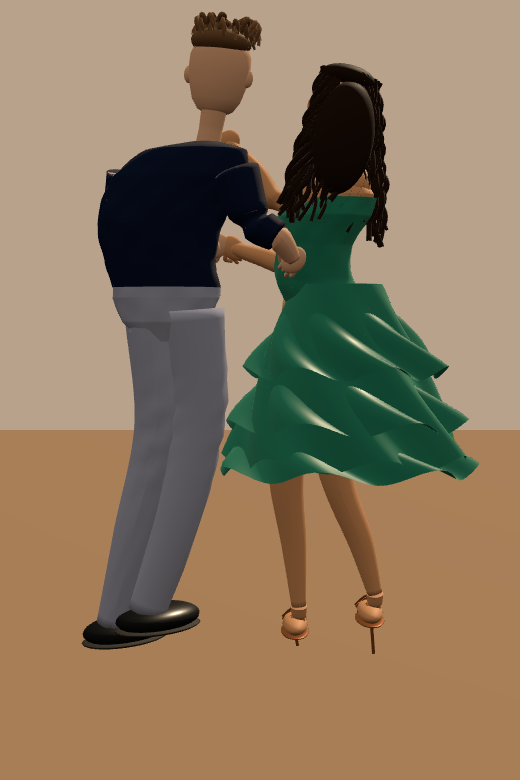
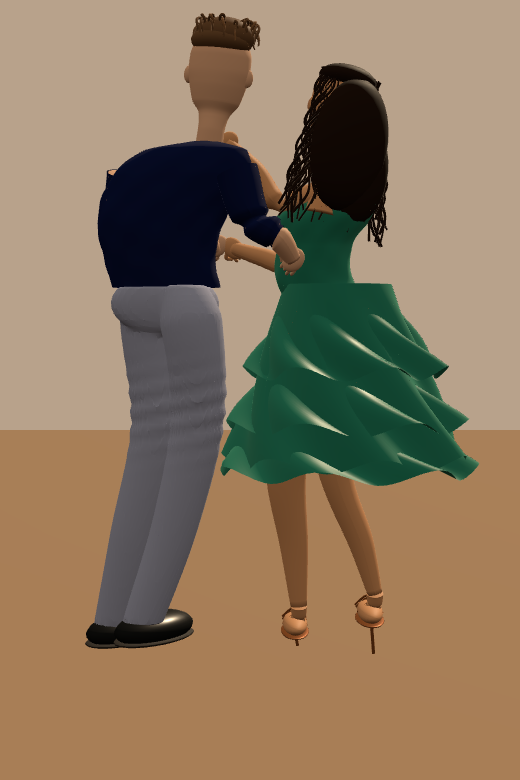
fix: join neck skin and garments into continuous modeled surfaces

diff --git a/experiments/salsa-human-models/model.js b/experiments/salsa-human-models/model.js
@@ -1,6 +1,8 @@
+import {MarchingCubes} from './marching.js';
+import {mergeVertices} from '../../vendor/BufferGeometryUtils.js';
 import * as THREE from '../../vendor/three.module.js';
 import {referenceCamera} from './camera.js';
-export const palette={dress:0x00624e,shirt:0x0e172f,trousers:0x9397af};
+export const palette={dress:0x00624e,shirt:0x0c153b,trousers:0x9397af};
 const camera=new THREE.PerspectiveCamera(referenceCamera.fov,referenceCamera.aspect,referenceCamera.near,referenceCamera.far);
 camera.position.set(...referenceCamera.position);camera.lookAt(...referenceCamera.target);camera.updateMatrixWorld();
 // Measured reference landmarks set geometry placement, never camera or image pixels.
@@ -9,7 +11,7 @@ export const landmarks={womanHead:point(.347,.143).toArray(),manHead:point(.579,
 export function createCouple(){
  const root=new THREE.Group();root.name='Detailed static salsa couple';
  const mat=(color,roughness=.65,extra={})=>new THREE.MeshPhysicalMaterial({color,roughness,...extra});
- const ws=mat(0xc58c60,.55),ms=mat(0xd0a080,.56),emerald=mat(palette.dress,.43,{sheen:.8,sheenColor:new THREE.Color(0x5caa8a)}),navy=mat(palette.shirt,.76),gray=mat(palette.trousers,.82),black=mat(0x121313,.3),bronze=mat(0x9d5c30,.32,{metalness:.55}),hair=mat(0x20140d,.6),maleHair=mat(0x63462e,.6);
+ const ws=mat(0xc58c60,.55),ms=mat(0xd0a080,.56),emerald=mat(palette.dress,.43,{sheen:.8,sheenColor:new THREE.Color(0x5caa8a)}),navy=mat(palette.shirt,.80,{specularIntensity:.35}),gray=mat(palette.trousers,.82),black=mat(0x121313,.3),bronze=mat(0x9d5c30,.32,{metalness:.55}),hair=mat(0x20140d,.6),maleHair=mat(0x63462e,.6);
  const vec=p=>p.isVector3?p.clone():new THREE.Vector3(...p);
  function mesh(name,geometry,material,parent=root){const o=new THREE.Mesh(geometry,material);o.name=name;o.castShadow=true;o.receiveShadow=true;parent.add(o);return o;}
  function oval(name,p,s,m,parent=root){const o=mesh(name,new THREE.SphereGeometry(1,24,16),m,parent);o.position.copy(vec(p));o.scale.set(...s);return o;}
@@ -24,18 +26,21 @@ export function createCouple(){
   for(const j of [0,rows]){const c=path.getPoint(j/rows),center=vertices.length/3;vertices.push(c.x,c.y,c.z);for(let k=0;k<sides;k++){const i=j*(sides+1)+k;if(j===0)indices.push(center,i,i+1);else indices.push(center,i+1,i);}}
   const g=new THREE.BufferGeometry();g.setAttribute('position',new THREE.Float32BufferAttribute(vertices,3));g.setIndex(indices);g.computeVertexNormals();const o=mesh(name,g,m);o.userData={surface:'sweep',rows,sides};return o;
  }
- function torso(name,anchors,m){const v=[],ix=[],sides=48,rings=[];const path=new THREE.CatmullRomCurve3(anchors.map(r=>r[0]));for(let j=0;j<=60;j++){const u=j/60*(anchors.length-1),i=Math.min(anchors.length-2,Math.floor(u)),f=u-i;rings.push([path.getPoint(j/60),THREE.MathUtils.lerp(anchors[i][1],anchors[i+1][1],f),THREE.MathUtils.lerp(anchors[i][2],anchors[i+1][2],f)]);}
+ function torso(name,anchors,m){const v=[],ix=[],sides=48,rings=[];const path=new THREE.CatmullRomCurve3(anchors.map(r=>r[0])),profile=new THREE.CatmullRomCurve3(anchors.map(r=>new THREE.Vector3(r[1],r[2],0)));for(let j=0;j<=60;j++){const u=j/60*(anchors.length-1),i=Math.min(anchors.length-2,Math.floor(u)),f=u-i;const radius=profile.getPoint(j/60);rings.push([path.getPoint(j/60),radius.x,radius.y]);}
   for(const [row,[c,rx,rz]] of rings.entries())for(let i=0;i<=sides;i++){const a=i/sides*Math.PI*2;const fold=1+.012*Math.sin(a*9+c.y*38)+.009*Math.sin(a*5-c.y*51);const neckline=name==='Emerald fitted bodice'?.07*Math.max(0,Math.sin(a))**4*(row/60)**12:0;v.push(c.x+Math.cos(a)*rx*fold,c.y-neckline,c.z+Math.sin(a)*rz*fold);}
   for(let j=0;j<rings.length-1;j++)for(let i=0;i<sides;i++){const k=j*(sides+1)+i;ix.push(k,k+sides+1,k+1,k+1,k+sides+1,k+sides+2);}
   const g=new THREE.BufferGeometry();g.setAttribute('position',new THREE.Float32BufferAttribute(v,3));g.setIndex(ix);g.computeVertexNormals();const material=m.clone();material.side=THREE.DoubleSide;return mesh(name,g,material);
  }
  function head(name,p,skin,hairMaterial,female){
   const g=new THREE.Group();g.name=name+' head';g.position.copy(p);g.rotation.set(0,female?.42:-.18,female?.22:.12);root.add(g);
-  const rings=[[-.135,.025,.038],[-.117,.058,.060],[-.085,.079,.073],[-.04,.092,.083],[.01,.101,.086],[.06,.100,.084],[.105,.085,.071],[.13,.04,.04]];
+  // The neck and face share one continuous skin mesh; no detached cylinder/cap under the jaw.
+  const anchors=[[-.36,.065,.060,-.025],[-.27,.046,.047,-.025],[-.19,.043,.048,-.020],[-.145,.047,.052,-.008],[-.125,.054,.059,0],[-.095,.076,.071,0],[-.04,.092,.083,0],[.01,.101,.086,0],[.06,.100,.084,0],[.105,.085,.071,0],[.135,.025,.025,0]];
+  const profile=new THREE.CatmullRomCurve3(anchors.map(r=>new THREE.Vector3(r[1],r[2],r[3]))),heights=new THREE.CatmullRomCurve3(anchors.map(r=>new THREE.Vector3(r[0],0,0))),rings=[];
+  for(let i=0;i<=88;i++){const t=i/88,u=t*(anchors.length-1),k=Math.min(anchors.length-2,Math.floor(u)),f=u-k,r=profile.getPoint(t);rings.push([heights.getPoint(t).x,r.x,r.y,r.z]);}
   const v=[],ix=[],sides=56;
-  for(const [y,rx,rz] of rings)for(let i=0;i<=sides;i++){const a=i/sides*Math.PI*2,cheek=1+.035*Math.cos(a*2);v.push(Math.cos(a)*rx*cheek,y,Math.sin(a)*rz);}
+  for(const [y,rx,rz,cz] of rings)for(let i=0;i<=sides;i++){const a=i/sides*Math.PI*2,cheek=1+.035*Math.cos(a*2);v.push(Math.cos(a)*rx*cheek,y,cz+Math.sin(a)*rz);}
   for(let j=0;j<rings.length-1;j++)for(let i=0;i<sides;i++){const k=j*(sides+1)+i;ix.push(k,k+sides+1,k+1,k+1,k+sides+1,k+sides+2);}
-  for(const row of [0,rings.length-1]){const index=v.length/3;v.push(0,rings[row][0],0);for(let i=0;i<sides;i++){const k=row*(sides+1)+i;if(row===0)ix.push(index,k,k+1);else ix.push(index,k+1,k);}}
+  for(const row of [0,rings.length-1]){const index=v.length/3;v.push(0,rings[row][0],rings[row][3]);for(let i=0;i<sides;i++){const k=row*(sides+1)+i;if(row===0)ix.push(index,k,k+1);else ix.push(index,k+1,k);}}
   const geo=new THREE.BufferGeometry();geo.setAttribute('position',new THREE.Float32BufferAttribute(v,3));geo.setIndex(ix);geo.computeVertexNormals();mesh(name+' shaped face',geo,skin,g);
   oval(name+' nose bridge',[0,-.007,.085],[.014,.033,.015],skin,g);oval(name+' nose tip',[0,-.031,.103],[.018,.013,.017],skin,g);
   for(const x of [-1,1]){oval(name+' nose wing',[x*.014,-.034,.097],[.011,.010,.012],skin,g);oval(name+' nostril',[x*.012,-.04,.105],[.005,.003,.004],mat(0x6b3d29),g);
@@ -48,19 +53,18 @@ export function createCouple(){
   curve(name+' smile lower',[[-.032,-.066,.071],[0,-.079,.082],[.032,-.059,.07]],.004,lip,g);
   oval(name+' visible teeth',[0,-.071,.080],[.029,.007,.003],mat(0xeadbc5,.4),g);
   oval(name+' scalp',[0,.104,-.017],[.103,.048,.081],hairMaterial,g);
-  if(female)oval(name+' back hair volume',[0,-.10,-.07],[.107,.19,.067],hairMaterial,g);
+  if(female){oval(name+' back hair volume',[-.025,-.12,-.075],[.135,.225,.078],hairMaterial,g);oval(name+' flowing hair volume',[-.075,-.20,-.06],[.115,.18,.065],hairMaterial,g);}else oval(name+' swept hair volume',[-.01,.125,-.016],[.102,.062,.075],hairMaterial,g);
   const count=female?70:60;
   for(let i=0;i<count;i++){const a=i*2.39996,seed=(Math.sin(i*7.13)+1)/2;
-   if(female){const side=Math.cos(a),back=Math.sin(a);if(back>.55&&Math.abs(side)<.75)continue;const points=[];for(let j=0;j<8;j++){const t=j/7;points.push([side*(.085+t*(side<0?.15:.06))+Math.sin(t*15+i)*.019,.12-t*(.43+seed*.10),-.025-Math.abs(back)*.045+Math.sin(t*13+i)*.018]);}curve(name+' wavy hair lock '+i,points,i%3===0?.010:.006,hairMaterial,g);}
-   else{const x=Math.cos(a)*.087,z=Math.sin(a)*.062,points=[];for(let j=0;j<=8;j++){const t=j/8,angle=t*Math.PI*2*(.8+seed*.4)+i*.21;points.push([x-.025*t+.012*Math.cos(angle),.10+.055*Math.sin(Math.PI*t)+seed*.025,z-.02+.018*Math.sin(angle)+.02*t]);}curve(name+' tousled curl '+i,points,.005+seed*.004,i%5===0?mat(0x795435,.6):maleHair,g);}}
+   if(female){const side=Math.cos(a),back=Math.sin(a);if(back>.55&&Math.abs(side)<.75)continue;const points=[];for(let j=0;j<8;j++){const t=j/7;points.push([side*(.085+t*(side<0?.15:.06))+Math.sin(t*15+i)*.019,.12-t*(.43+seed*.10),-.025-Math.abs(back)*.045+Math.sin(t*13+i)*.018]);}curve(name+' wavy hair lock '+i,points,i%3===0?.0045:.0030,hairMaterial,g);}
+   else{const x=Math.cos(a)*.087,z=Math.sin(a)*.062,points=[];for(let j=0;j<=8;j++){const t=j/8,angle=t*Math.PI*2*(.8+seed*.4)+i*.21;points.push([x-.025*t+.012*Math.cos(angle),.10+.055*Math.sin(Math.PI*t)+seed*.025,z-.02+.018*Math.sin(angle)+.02*t]);}curve(name+' tousled curl '+i,points,.0028+seed*.0018,i%5===0?mat(0x795435,.6):maleHair,g);}}
  }
  const wh=point(.347,.143),mh=point(.579,.096);head('Woman',wh,ws,hair,true);head('Man',mh,ms,maleHair,false);
- sweep('Woman neck',[[point(.353,.239),.044],[point(.350,.190),.038],[point(.347,.165),.043]],ws,.9);
- sweep('Man neck',[[point(.607,.218),.053],[point(.595,.167),.044],[point(.586,.133),.049]],ms,.9);
+
  torso('Fitted navy shirt',[[point(.680,.369,-.015),.18,.095],[point(.690,.334,-.02),.185,.103],[point(.690,.287,-.02),.21,.115],[point(.650,.23,-.02),.235,.11],[point(.621,.195,-.02),.17,.085],[point(.605,.185,-.015),.06,.05]],navy);
  torso('Woman upper torso',[[point(.367,.282,-.01),.125,.08],[point(.349,.251,-.01),.12,.075],[point(.349,.230,-.01),.075,.055]],ws);
  torso('Emerald fitted bodice',[[point(.365,.39),.145,.09],[point(.395,.36),.13,.083],[point(.395,.315),.125,.09],[point(.376,.278),.16,.105],[point(.355,.255),.14,.09]],emerald);
- oval('Woman upper shoulder',point(.327,.239,-.01),[.07,.065,.06],ws);
+ oval('Woman upper shoulder',point(.327,.239,.05),[.062,.062,.062],ws);
  for(const [a,b,c] of [[point(.31,.223),point(.305,.25,.015),point(.333,.284,.09)],[point(.374,.235),point(.41,.269,.08),point(.435,.29,.095)]])curve('Dress shoulder strap',[a,b,c],.007,emerald);
  const shirtSeam=mat(0x28374c,.8);
  curve('Shirt front placket',[point(.602,.202,.115),point(.604,.28,.12),point(.613,.362,.105)],.008,shirtSeam);
@@ -70,27 +74,67 @@ export function createCouple(){
  // Smooth anatomical leg profiles and contiguous trouser volumes.
  const legs=[
  ['Woman back',[[.335,.39,.00,.09],[.359,.59,.025,.07],[.300,.705,.04,.048],[.275,.767,.04,.029]],ws],
- ['Woman front',[[.405,.385,.10,.095],[.447,.609,.13,.073],[.430,.718,.15,.05],[.420,.802,.15,.029]],ws],
- ['Man back trouser',[[.626,.397,-.035,.102],[.615,.526,-.015,.089],[.656,.66,-.01,.077],[.719,.786,.01,.065]],gray],
- ['Man front trouser',[[.711,.399,.025,.105],[.698,.546,.03,.093],[.746,.69,.04,.082],[.790,.811,.065,.067]],gray]];
+ ['Woman front',[[.387,.38,.015,.055],[.418,.490,.12,.093],[.447,.609,.13,.073],[.430,.718,.15,.05],[.420,.802,.15,.029]],ws],
+ ['Man back trouser',[[.640,.374,-.08,.070],[.626,.414,-.10,.102],[.615,.526,-.08,.089],[.656,.66,-.075,.077],[.719,.786,-.07,.065]],gray],
+ ['Man front trouser',[[.710,.372,.020,.070],[.711,.418,.025,.105],[.698,.546,.03,.093],[.746,.69,.04,.082],[.790,.811,.065,.067]],gray]];
  torso('Trouser pelvis',[[point(.680,.438),.09,.07],[point(.680,.413),.15,.095],[point(.680,.382),.18,.097],[point(.680,.365),.18,.096]],gray);
  for(const [name,points,m] of legs){sweep(name,points.map(([x,y,z,r])=>[point(x,y,z),r]),m,.88);const last=points.at(-1),p=point(last[0],last[1],last[2]);
-  if(name.startsWith('Man')){const shoe=oval(name+' leather derby',p.clone().add(new THREE.Vector3(-.035,-.030,.058)),[.11,.048,.18],black);shoe.rotation.y=-.65;const sole=oval(name+' layered sole',p.clone().add(new THREE.Vector3(-.035,-.062,.058)),[.113,.014,.183],mat(0x24201d));sole.rotation.y=-.65;
-   for(let i=0;i<5;i++)curve(name+' lace '+i,[p.clone().add(new THREE.Vector3(-.035,-.005,.03+i*.015)),p.clone().add(new THREE.Vector3(.015,-.008,.04+i*.015))],.0025,mat(0x5a534b));
-   const seam=points.map(([x,y,z])=>point(x+.025,y,z+.055));curve(name+' outer seam',seam,.0016,mat(0x676669));
+  if(name.startsWith('Man')){const shoe=oval(name+' leather derby',p.clone().add(new THREE.Vector3(-.035,-.030,.058)),[.095,.055,.17],black);shoe.rotation.y=-.65;const sole=oval(name+' layered sole',p.clone().add(new THREE.Vector3(-.035,-.062,.058)),[.098,.014,.173],mat(0x24201d));sole.rotation.y=-.65;
+   shoe.updateMatrixWorld(true);for(let i=0;i<5;i++){const z=-.06+i*.018,y=.055*Math.sqrt(1-(.028/.095)**2-(z/.17)**2)+.002;curve(name+' visible lace '+i,[shoe.localToWorld(new THREE.Vector3(-.028/.095,y/.055,z/.17)),shoe.localToWorld(new THREE.Vector3(0,(y+.005)/.055,(z+.005)/.17)),shoe.localToWorld(new THREE.Vector3(.028/.095,y/.055,z/.17))],.0018,mat(0x3b3430));}
+
   }else{const foot=p.clone().add(new THREE.Vector3(.012,-.075,.060));sweep(name+' ankle',[[p,.029],[p.clone().add(new THREE.Vector3(0,-.04,.015)),.026],[foot,.026]],ws,.9);oval(name+' foot',foot,[.044,.033,.13],ws);oval(name+' sandal sole',foot.clone().add(new THREE.Vector3(0,-.028,.01)),[.05,.009,.14],bronze);curve(name+' stiletto heel',[foot.clone().add(new THREE.Vector3(0,-.025,-.065)),new THREE.Vector3(foot.x-.008,.012,foot.z-.064)],.006,bronze);
    for(const dz of [-.035,.045,.085])curve(name+' sandal strap',[foot.clone().add(new THREE.Vector3(-.043,0,dz)),foot.clone().add(new THREE.Vector3(0,.035,dz+.012)),foot.clone().add(new THREE.Vector3(.043,0,dz+.024))],.004,bronze);
    for(let i=0;i<5;i++)oval(name+' toe '+i,foot.clone().add(new THREE.Vector3(-.027+i*.014,-.002,.118-i*.004)),[.008,.012,.019],ws);
   }}
- const trouserThread=mat(0x747580,.85);
- curve('Trouser waistband seam',[point(.579,.377,.085),point(.675,.374,.105),point(.778,.38,.08)],.002,trouserThread);
- curve('Trouser fly seam',[point(.652,.38,.105),point(.650,.412,.105),point(.663,.438,.08)],.0018,trouserThread);
- curve('Slanted trouser pocket',[point(.753,.383,.08),point(.744,.410,.09),point(.721,.428,.10)],.002,trouserThread);
- for(const x of [.60,.677,.748])curve('Trouser belt loop',[point(x,.372,.112),point(x,.382,.115),point(x,.391,.11)],.004,gray);
- oval('Waist fastener',point(.644,.377,.116),[.004,.004,.002],trouserThread);
+ // Merge the pelvis and both trouser legs into a single closed static surface.
+ // Only the result is exported; the marching field and intersecting construction lofts are discarded.
+ const construction=root.children.filter(o=>o.isMesh&&(o.name==='Trouser pelvis'||/^Man (back|front) trouser$/.test(o.name)));
+ const bounds=new THREE.Box3();for(const o of construction)bounds.expandByObject(o);bounds.expandByScalar(.065);
+ const center=bounds.getCenter(new THREE.Vector3()),half=bounds.getSize(new THREE.Vector3()).multiplyScalar(.5),resolution=64;
+ const segments=[];
+ for(const [name,points] of legs.filter(row=>row[0].startsWith('Man'))){const path=new THREE.CatmullRomCurve3(points.map(([x,y,z])=>point(x,y,z)));let previous=path.getPoint(0);
+  const radius=t=>{const u=t*(points.length-1),i=Math.min(points.length-2,Math.floor(u));return THREE.MathUtils.lerp(points[i][3],points[i+1][3],u-i);};
+  for(let i=1;i<=32;i++){const t=i/32,p=path.getPoint(t),a=previous,dx=p.x-a.x,dy=p.y-a.y,dz=(p.z-a.z)/.88;segments.push({leg:name.includes('back')?0:1,endY:path.getPoint(1).y,x:a.x,y:a.y,z:a.z/.88,dx,dy,dz,length2:dx*dx+dy*dy+dz*dz,r0:radius((i-1)/32),r1:radius(t)});previous=p;}}
+ const pelvis=point(.680,.390,-.025),waist=point(.680,.367).y;
+ const smoothMin=(a,b,k)=>{const h=Math.max(k-Math.abs(a-b),0)/k;return Math.min(a,b)-h*h*k*.25;};
+ const field=new MarchingCubes(resolution,gray,false,false,50000);field.isolation=0;
+ for(let z=0;z<resolution;z++)for(let y=0;y<resolution;y++)for(let x=0;x<resolution;x++){
+  const px=center.x+(x/(resolution/2)-1)*half.x,py=center.y+(y/(resolution/2)-1)*half.y,pz=center.z+(z/(resolution/2)-1)*half.z;
+  const ex=(px-pelvis.x)/.18,ey=(py-pelvis.y)/.105,ez=(pz-pelvis.z)/.075;let distance=(Math.sqrt(ex*ex+ey*ey+ez**4)-1)*.10;
+  const legDistances=[Infinity,Infinity];for(const s of segments){const ax=px-s.x,ay=py-s.y,az=pz/.88-s.z,t=THREE.MathUtils.clamp((ax*s.dx+ay*s.dy+az*s.dz)/s.length2,0,1),dx=ax-t*s.dx,dy=ay-t*s.dy,dz=az-t*s.dz;const d=Math.max(Math.sqrt(dx*dx+dy*dy+dz*dz)-THREE.MathUtils.lerp(s.r0,s.r1,t),s.endY-py);legDistances[s.leg]=Math.min(legDistances[s.leg],d);}distance=smoothMin(distance,smoothMin(legDistances[0],legDistances[1],.006),.012);
+  distance=Math.max(distance,py-waist);field.field[z*resolution*resolution+y*resolution+x]=-distance;
+ }
+ field.update();const count=field.count;if(count<=0||count>=50000*3)throw new Error('Trouser surface exceeded its bounded mesh buffer');
+ const geometry=new THREE.BufferGeometry();geometry.setAttribute('position',new THREE.Float32BufferAttribute(field.geometry.attributes.position.array.slice(0,count*3),3));geometry.setAttribute('normal',new THREE.Float32BufferAttribute(field.geometry.attributes.normal.array.slice(0,count*3),3));
+ const normals=geometry.attributes.normal;for(let i=0;i<normals.count;i++){const n=new THREE.Vector3().fromBufferAttribute(normals,i).normalize();normals.setXYZ(i,n.x,n.y,n.z);}
+ geometry.applyMatrix4(new THREE.Matrix4().compose(center,new THREE.Quaternion(),half));
+ // Low-amplitude cloth folds follow the knee region of the finished surface.
+ const positions=geometry.attributes.position,knee=point(.615,.526).y;
+ for(let i=0;i<positions.count;i++){const p=new THREE.Vector3().fromBufferAttribute(positions,i),normal=new THREE.Vector3().fromBufferAttribute(geometry.attributes.normal,i);const band=Math.exp(-(((p.y-knee)/.12)**2)),fold=.0045*band*Math.sin(p.y*95+p.x*22);p.addScaledVector(normal,fold);positions.setXYZ(i,p.x,p.y,p.z);}
+ geometry.deleteAttribute('normal');const joined=mergeVertices(geometry,1e-6),valid=[];
+ for(let i=0;i<joined.index.count;i+=3){const a=joined.index.getX(i),b=joined.index.getX(i+1),c=joined.index.getX(i+2);if(a!==b&&b!==c&&c!==a)valid.push(a,b,c);}
+ joined.setIndex(valid);let finished=mergeVertices(joined,1e-6);
+ // Discard tiny internal closed shells; the garment must have one connected outer component.
+ const parent=Array.from({length:finished.attributes.position.count},(_,i)=>i),find=i=>{while(parent[i]!==i){parent[i]=parent[parent[i]];i=parent[i];}return i;},unite=(a,b)=>{a=find(a);b=find(b);if(a!==b)parent[Math.max(a,b)]=Math.min(a,b);};
+ for(let i=0;i<finished.index.count;i+=3){const a=finished.index.getX(i);unite(a,finished.index.getX(i+1));unite(a,finished.index.getX(i+2));}
+ const components=new Map();for(let i=0;i<finished.index.count;i+=3){const a=finished.index.getX(i),key=find(a);if(!components.has(key))components.set(key,[]);components.get(key).push(a,finished.index.getX(i+1),finished.index.getX(i+2));}
+ if(components.size>1){const largest=[...components.values()].reduce((a,b)=>a.length>b.length?a:b);finished.setIndex(largest);const compact=mergeVertices(finished,1e-6);finished.dispose();finished=compact;}
+ finished.computeVertexNormals();geometry.dispose();joined.dispose();
+ const trousers=mesh('Continuous tailored trousers',finished,gray);trousers.userData={surface:'implicit-trousers',resolution,triangles:finished.index.count/3,constructionMeshesExported:false};field.geometry.dispose();
+ for(const o of construction){root.remove(o);o.geometry.dispose();}
+ // Stitching is attached to the final garment surface by ray intersection, not floated in front.
+ const trouserThread=mat(0x747580,.85),raycaster=new THREE.Raycaster();trousers.updateMatrixWorld(true);
+ function garmentPoint(x,y){raycaster.setFromCamera(new THREE.Vector2(x*2-1,1-y*2),camera);const hit=raycaster.intersectObject(trousers,false)[0];return hit?hit.point.clone().addScaledVector(hit.face.normal,.0015):null;}
+ function garmentSeam(name,coordinates,radius=.0018){const points=coordinates.map(([x,y])=>garmentPoint(x,y));if(points.every(Boolean))curve(name,points,radius,trouserThread);}
+ garmentSeam('Trouser waistband seam',[[.579,.377],[.675,.374],[.778,.38]],.002);
+ garmentSeam('Trouser fly seam',[[.652,.38],[.650,.412],[.663,.438]]);
+ garmentSeam('Slanted trouser pocket',[[.753,.383],[.744,.410],[.721,.428]],.002);
+ garmentSeam('Pressed front trouser crease',[[.712,.44],[.713,.55],[.746,.69],[.786,.79]],.0012);
+ for(const x of [.60,.677,.748])garmentSeam('Trouser belt loop',[[x,.372],[x,.382],[x,.391]],.003);
+ const fastener=garmentPoint(.644,.377);if(fastener)oval('Waist fastener',fastener,[.004,.004,.002],trouserThread);
  // Overlapping ruffle panels are real double-sided surfaces around the body.
  function skirt(name,top,bottom,spread,phase){const vertices=[],indices=[],rows=24,cols=96;
-  for(let j=0;j<=rows;j++)for(let i=0;i<=cols;i++){const t=j/rows,gap=.70*THREE.MathUtils.clamp((t-.30)/.70,0,1),a=.85+gap/2+i/cols*(Math.PI*2-gap),wave=Math.sin(a*7+t*8+phase),r=.15+t*spread+wave*.020*t;const center=point(.351-.015*t,top+(bottom-top)*t,-.01);vertices.push(center.x+Math.cos(a)*r,center.y+.023*wave*t,center.z+Math.sin(a)*r*.68);}
+  for(let j=0;j<=rows;j++)for(let i=0;i<=cols;i++){const t=j/rows,gap=.70*THREE.MathUtils.clamp((t-.30)/.70,0,1),a=.85+gap/2+i/cols*(Math.PI*2-gap),wave=Math.sin(a*7+t*8+phase),r=.15+.03*(1-t)**2+t*spread+wave*.020*t;const center=point(.351-.015*t,top+(bottom-top)*t,-.01);vertices.push(center.x+Math.cos(a)*r,center.y+.023*wave*t,center.z+Math.sin(a)*r*.68);}
   for(let j=0;j<rows;j++)for(let i=0;i<cols;i++){const k=j*(cols+1)+i;indices.push(k,k+cols+1,k+1,k+1,k+cols+1,k+cols+2);}const g=new THREE.BufferGeometry();g.setAttribute('position',new THREE.Float32BufferAttribute(vertices,3));g.setIndex(indices);g.computeVertexNormals();const silk=emerald.clone();silk.side=THREE.DoubleSide;mesh(name,g,silk);}
  skirt('Silk skirt body',.365,.588,.25,0);skirt('Upper cascading ruffle',.385,.477,.18,1);skirt('Middle cascading ruffle',.445,.544,.245,2);skirt('Lower cascading ruffle',.510,.601,.28,3);
  const arms=[
@@ -98,11 +142,21 @@ export function createCouple(){
  ['Woman shoulder',[[.389,.253,-.03,.053],[.462,.265,-.02,.046],[.508,.219,.005,.035],[.563,.182,.015,.024]],ws],
  ['Man joined',[[.748,.224,.015,.080],[.767,.278,.06,.063],[.758,.309,.13,.050],[.735,.322,.17,.043],[.673,.315,.22,.041],[.593,.301,.27,.029]],ms],
  ['Man back',[[.543,.229,-.09,.074],[.513,.289,-.11,.063],[.468,.310,-.12,.048],[.438,.337,-.09,.030]],ms]];
- function hand(name,p,skin,angle){const g=new THREE.Group();g.position.copy(p);g.rotation.z=angle;root.add(g);oval(name+' palm',[0,0,0],[.038,.048,.023],skin,g);
+ function hand(name,p,skin,angle){const g=new THREE.Group();g.position.copy(p);g.rotation.z=angle;g.scale.setScalar(.88);root.add(g);oval(name+' palm',[0,0,0],[.038,.048,.023],skin,g);
   for(let i=0;i<4;i++){const x=-.026+i*.016,len=.043+(i===1?.012:0);curve(name+' bent finger '+i,[[x,-.025,.005],[x,-.045,.020],[x,-len,.04],[x,-len+.01,.052]],.007,skin,g);oval(name+' fingernail '+i,[x,-len+.008,.057],[.005,.007,.0015],mat(0xd8af90),g);}
   curve(name+' thumb',[[.028,.007,.013],[.046,-.01,.032],[.032,-.027,.049]],.009,skin,g);}
- for(const [name,pts,skin] of arms){sweep(name+' arm',pts.map(([x,y,z,r])=>[point(x,y,z),r]),skin,.9);hand(name,point(...pts.at(-1).slice(0,3)),skin,name==='Woman joined'?-.7:.65);
-  if(name.startsWith('Man')){const portion=pts.slice(0,3).map(([x,y,z,r])=>[point(x,y,z),r+.006]);sweep(name+' rolled sleeve',portion,navy,.95);}}
+ function sleeveShell(name,arm,endFraction){
+  const {sides,rows}=arm.userData,last=Math.round(rows*endFraction),position=arm.geometry.attributes.position,v=[],ix=[];
+  for(let row=0;row<=last;row++){const center=new THREE.Vector3();for(let i=0;i<sides;i++)center.add(new THREE.Vector3().fromBufferAttribute(position,row*(sides+1)+i));center.divideScalar(sides);
+   for(let i=0;i<=sides;i++){const p=new THREE.Vector3().fromBufferAttribute(position,row*(sides+1)+i),radial=p.clone().sub(center).normalize();p.addScaledVector(radial,.005);v.push(p.x,p.y,p.z);}}
+  for(let row=0;row<last;row++)for(let i=0;i<sides;i++){const k=row*(sides+1)+i;ix.push(k,k+sides+1,k+1,k+1,k+sides+1,k+sides+2);}
+  // A thin cuff annulus follows the exact underlying arm ring instead of a flat solid end cap.
+  const inner=v.length/3;for(let i=0;i<=sides;i++){const p=new THREE.Vector3().fromBufferAttribute(position,last*(sides+1)+i);v.push(p.x,p.y,p.z);}
+  for(let i=0;i<sides;i++){const k=last*(sides+1)+i;ix.push(k,inner+i,k+1,k+1,inner+i,inner+i+1);}
+  const g=new THREE.BufferGeometry();g.setAttribute('position',new THREE.Float32BufferAttribute(v,3));g.setIndex(ix);g.computeVertexNormals();const cloth=navy.clone();cloth.side=THREE.DoubleSide;mesh(name+' fitted sleeve',g,cloth);
+ }
+ for(const [name,pts,skin] of arms){const arm=sweep(name+' arm',pts.map(([x,y,z,r])=>[point(x,y,z),r]),skin,.9);hand(name,point(...pts.at(-1).slice(0,3)),skin,name==='Woman joined'?-.7:.65);
+  if(name.startsWith('Man'))sleeveShell(name,arm,2/(pts.length-1));}
  for(let i=0;i<6;i++){const y=.27+i*.013;curve('Bodice fabric gathering '+i,[point(.335,y,.073),point(.387,y+.01,.101),point(.435,y-.004,.071)],.0018,mat(0x085b49));}
- root.userData={landmarks,palette,static:true,revision:'reference-silhouette-and-ruffles-v3'};return root;
+ root.userData={landmarks,palette,static:true,revision:'continuous-neck-skin-and-fitted-garments-v4'};return root;
 }

diff --git a/tests/test_salsa_comparison.py b/tests/test_salsa_comparison.py
@@ -103,6 +103,21 @@ class ComparisonTests(unittest.TestCase):
             result = subprocess.run(command, capture_output=True, text=True)
             self.assertEqual(result.returncode, 0, result.stderr)
 
+    def test_report_discloses_regression_from_immediate_previous_model(self):
+        with tempfile.TemporaryDirectory() as directory:
+            directory = Path(directory)
+            render = Image.new('RGB', (1024, 1536), 'white')
+            draw = ImageDraw.Draw(render)
+            for y in range(0, 1536, 24):
+                draw.rectangle((0, y, 1023, y+11), fill='black')
+            render.save(directory/'render.png')
+            result = subprocess.run([sys.executable, str(SCRIPT), '--render', str(directory/'render.png'), '--output', str(directory)], capture_output=True, text=True)
+            self.assertEqual(result.returncode, 1)
+            metrics = json.loads((directory/'metrics.json').read_text())
+            self.assertLess(metrics['previousIteration']['deltaPercentagePoints'], 0)
+            self.assertEqual(metrics['previousIteration']['modelCommit'], 'b4ffce409a68b6e7c675512ca730381842580fad')
+            self.assertIn('Immediate previous PR model', (directory/'summary.md').read_text())
+
     def test_cli_invalid_input_reports_error(self):
         with tempfile.TemporaryDirectory() as directory:
             directory = Path(directory)

diff --git a/experiments/salsa-human-models/compare.py b/experiments/salsa-human-models/compare.py
@@ -106,6 +106,14 @@ def main():
             result['sceneViewerSha256'] = hashlib.sha256((ROOT/'viewer.js').read_bytes()).hexdigest()
             result['cropBaseline'] = {'modelCommit': baseline['modelCommit'], 'scorePercent': baseline['scorePercent'], 'deltaPercentagePoints': result['scorePercent']-baseline['scorePercent']}
             baseline_note = f"Same-crop previous geometry: {baseline['scorePercent']:.4f}%; geometry delta: {result['scorePercent']-baseline['scorePercent']:+.4f} percentage points.\n\n"
+        iteration_path = ROOT/'reference/iteration-baseline.json'
+        if result['sha256']['reference'] == FRAMING['sourceSha256'] and iteration_path.exists():
+            previous = json.loads(iteration_path.read_text())
+            if previous['framing'] != FRAMING:
+                raise ValueError('Previous-iteration framing mismatch')
+            delta = result['scorePercent']-previous['scorePercent']
+            result['previousIteration'] = {'modelCommit': previous['modelCommit'], 'scorePercent': previous['scorePercent'], 'deltaPercentagePoints': delta}
+            baseline_note += f"Immediate previous PR model: {previous['scorePercent']:.4f}%; current iteration delta: {delta:+.4f} percentage points.\n\n"
         capture = args.render.parent/'capture.json'
         if capture.exists():
             result['capture'] = json.loads(capture.read_text())

diff --git a/experiments/salsa-human-models/README.md b/experiments/salsa-human-models/README.md
@@ -14,7 +14,7 @@ node experiments/salsa-human-models/prepare.mjs
 node experiments/salsa-human-models/serve.mjs
 ```
 
-Open http://127.0.0.1:3001/ — redirects to the isolated experiment. Drag to orbit, use reference/side/rear camera buttons, or download the static GLB. No production build or Pages changes are required. Exporter code is derived locally from the locked MIT Three.js package; upstream notice remains in vendor/THREE-LICENSE.txt.
+Open http://127.0.0.1:3001/ — redirects to the isolated experiment. Drag to orbit, use reference/side/rear camera buttons, or download the static GLB. No production build or Pages changes are required. Exporter and MarchingCubes code are derived locally from the locked MIT Three.js package; upstream notice remains in vendor/THREE-LICENSE.txt.
 
 ## Verify
 
@@ -107,4 +107,14 @@ The comparison artifact now also includes full-resolution `reference-cropped.png
 
 This geometry iteration improves cascading dress layers, neckline/slit closure, wavy hair volume and tousled curls, shirt proportions and button/placket alignment, trouser material color, waist/pocket/seam details and knee folds. These remain stylized modeled surfaces; no reference pixels are used on the models and the plain background/lighting are unchanged.
 
-Latest local results for this iteration: **v2 paired crop33.4162% →34.5677%** (+1.1515 percentage points), and the separate **v1 full-image37.5126% →38.4419%**. Both comparisons use their own consistent frame before/after. Neither meets80%, and neither is a percent-likeness claim. New materials were calibrated against fixed clothing patches in the reference, not by changing scene lighting or using reference textures.
+Earlier framing iteration (b4ffce4): **v2 paired crop33.4162% →34.5677%** (+1.1515 percentage points), and the separate **v1 full-image37.5126% →38.4419%**. Both comparisons use their own consistent frame before/after. Neither meets80%, and neither is a percent-likeness claim. New materials were calibrated against fixed clothing patches in the reference, not by changing scene lighting or using reference textures.
+
+## Visual continuity correction from owner preview
+
+The latest iteration targets the visible assembly seams rather than chasing image-score percentages: one continuous skin mesh for head/neck; smooth torso radii; sleeves copied from the exact arm surface with thin cuff rims; smaller hands; finer hair strands over modeled hair volume; tucked upper-thigh starts; and a single continuous trouser surface instead of overlapping capped pelvis/leg lofts. Shoe proportions and visible laces were corrected as well.
+
+Trousers are built once from a bounded64³ field using the existing locked MIT Three.js MarchingCubes addon. Only the used result is copied to an ordinary indexed BufferGeometry, welded, stripped of collapsed triangles and tiny disconnected internal shells, and given fresh normals. The field and construction meshes are discarded before export. Tests require one connected component, closed edges, outward volume, no zero-area triangles, unit normals, both calves present, and every vertex inside the frozen crop. Garment stitching is attached by ray intersection to the final surface. No photograph texture or camera/metric change is used.
+
+**Honest result:** the immediate previous PR model scored34.5677%; this continuity-focused iteration scores34.1109% (a regression of0.4568 percentage points). It improves visible assembly defects but does not improve the pixel-similarity gate. The report now explicitly includes the immediate previous iteration from `reference/iteration-baseline.json`, separately from the older initial crop baseline33.4162%; the latter must not conceal this regression. Threshold80% remains unchanged, so this is still a draft prototype.
+
+`npm test` now runs the experiment preparation first to generate the ignored local MarchingCubes module from the installed locked package. Production build contents remain unchanged. The separate-head/neck and intersecting-trouser approach was replaced, but stylized faces, hair, clothing and pose inaccuracies remain; this is not a finished realistic reconstruction.

diff --git a/.agentic/tasks/salsa-human-models/plan.md b/.agentic/tasks/salsa-human-models/plan.md
@@ -60,3 +60,10 @@ One reference cannot reveal occluded anatomy or back surfaces. These must be inf
 - Final geometry review found a disconnected skin triangle used for the open-shirt chest (R-006). Removed that detail rather than retain a front-view-only surface; shirt opening remains a reconstruction limitation.
 
 - After removing R-006, final local scores: v2 cropped34.5677% vs33.4162 (+1.1515pp); unchanged v1 full38.4419% vs37.5126 (+0.9293pp). Final source crop and geometry tests pass; these remain below80. Earlier34.7556/38.5817 values described the pre-review candidate only.
+
+## Owner screenshot: visual continuity correction
+- Owner preview revealed detached neck cylinders, angular cloth/shoulder joints, exposed thigh caps, overlapping trouser assemblies and bulky hair/hands. Rebuilt head+neck as a continuous smooth-profile skin mesh, fitted sleeves from actual arm rings, finer hair over volume, smaller hands, tucked leg starts, narrower shoes and visible laces.
+- Replaced intersecting pelvis/leg lofts with a bounded64³ implicit-union trouser surface using locked Three MarchingCubes. Copied used range only; guard polygon limit, weld, remove collapsed triangles and tiny disconnected internal shells, recompute normals, discard construction meshes/field. Seams ray-attached to resulting cloth. No new dependency/version/actions/permissions/camera/lighting/crop/threshold changes.
+- Independent review caught9 disconnected internal components despite closed edges; fixed by preserving main outer component and adding independent BFS connectedness, no collapsed/zeroarea faces, closed-edge/outward-volume/unit-normal and both-calves checks. Full crop/sweep tests retained.
+- Integration: generated marching.js ignored, prepared before Node tests/capture; npm pretest now calls prepare. Explicit server allowlist includes module, BufferGeometryUtils and MIT notice. Production37-file build unchanged.
+- Current pixel gate regresses vs immediate previous model:34.5677% ->34.1109% (-0.4568pp); visual continuity improved, not a claimed score improvement. Added immutable immediate-previous baseline b4ffce4 + renderhash and explicit report delta, alongside initial crop baseline33.4162. Unchanged legacy fullimage diagnostic38.1034% vs prior38.4419. Gate still fails below80.
